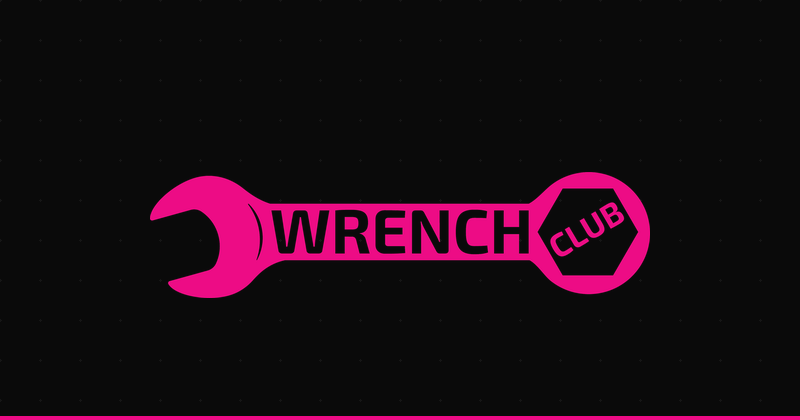
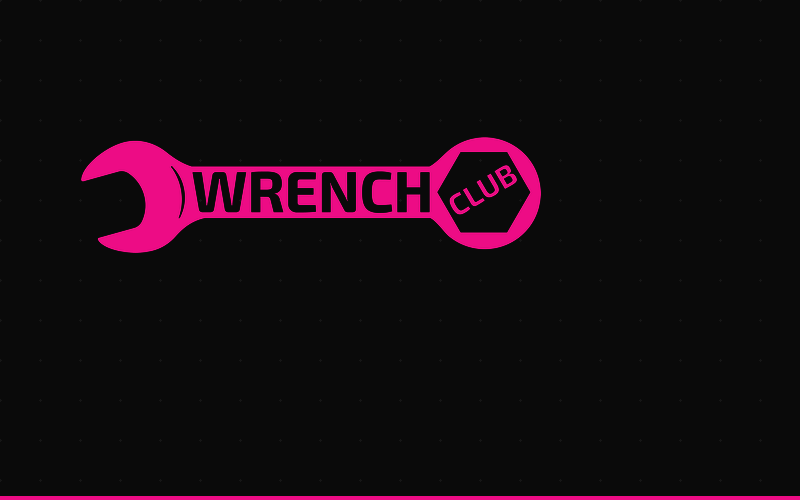
feat(og): ratchet animation — correct jaw pivot, 45° handle swing, bigger chain, legible text
- Pivot fixed to jaw center (PVTLX=74) so handle (right/hex end) swings, not head
- 45° snap angle with padded rotation canvas (PAD=520) to prevent clipping
- 8 ratchet clicks: anticipation +6° → snap -45° with ghost trail → 3-step return
- Chunky chain hoist: LNK_H=38/W=24, THICK=6, COL=(190,190,190)
- Text reveal: GR 160pt / 2026 70pt pink / GRAND RAPIDS,MI 36pt #a5a5a5
- Canvas 800×500; update og:image:height meta to match
- Gemini 3 Pro review applied: pivot depth, chain weight, text contrast fixes

— claude-sonnet-4-6

Changed region(s): [[0.0938, 0.2476, 0.8125, 0.7119], [0.0, 0.9905, 1.0, 1.0]]

diff --git a/src/routes/+page.svelte b/src/routes/+page.svelte
@@ -67,7 +67,7 @@
   <meta property="og:image" content="https://thewrench.club/og-preview.webp" />
   <meta property="og:image:type" content="image/webp" />
   <meta property="og:image:width" content="800" />
-  <meta property="og:image:height" content="420" />
+  <meta property="og:image:height" content="500" />
   <meta property="og:image:alt" content="Wrench Club — DIY auto shop, Grand Rapids MI" />
 
   <!-- Twitter / X card — use static PNG (Twitter doesn't support animated WebP) -->